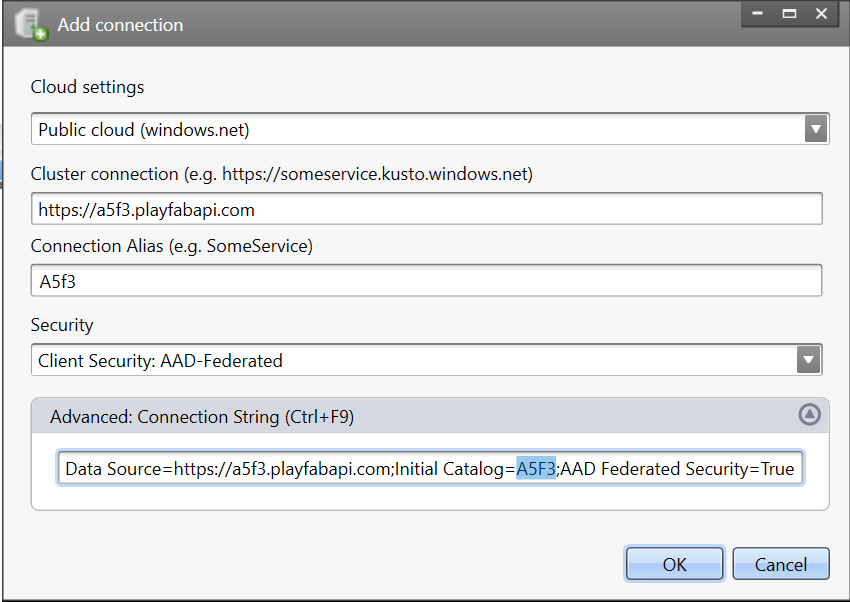
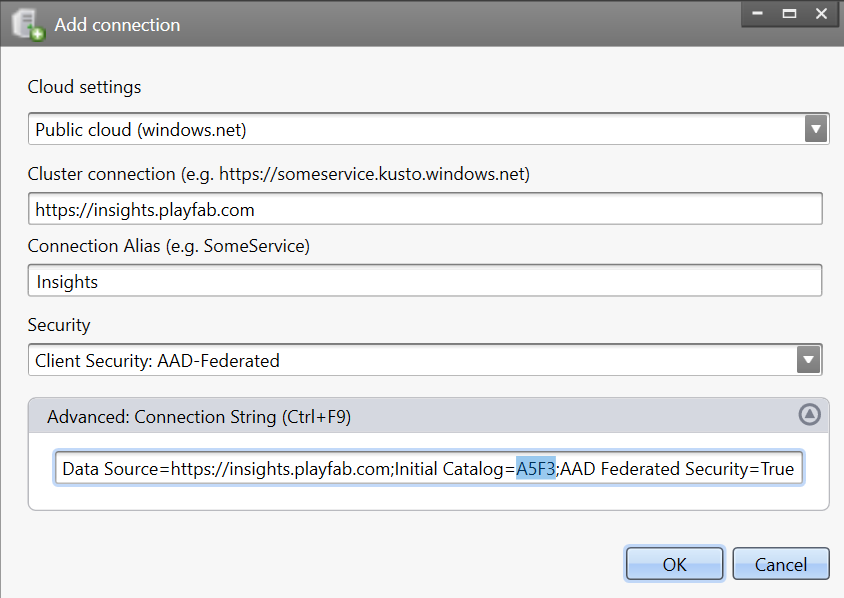
update endpoint

Changed region(s): [[0.0, 0.0, 1.0, 1.0], [0.8626, 0.0, 1.0, 0.0903]]

diff --git a/playfab-docs/features/Insights/connectivity/connecting-grafana-to-insights.md b/playfab-docs/features/Insights/connectivity/connecting-grafana-to-insights.md
@@ -47,17 +47,15 @@ Now that your title database is linked to an Azure app, you can use the app to c
 
 1. Log in to Grafana.
 
-   ![Grafana Login](media/grafana-login.png)
-
 2. On the **Welcome to Grafana** page, select **Add data source**. 
 
    ![Grafana Welcome](media/grafana-welcome.png)
 
-2. On the **Add Datasource** page, select the **Azure Data Explorer Datasource**. You can search for it with the searchbar or find it listed under the section **Others**. If you don't see the **Azure Data Explorer Datasource** option, you need to install the Azure Data Explorer Datasource For Grafana plugin.
+3. On the **Add Datasource** page, select the **Azure Data Explorer Datasource**. You can search for it with the searchbar or find it listed under the section **Others**. If you don't see the **Azure Data Explorer Datasource** option, you need to install the Azure Data Explorer Datasource For Grafana plugin.
 
    ![Grafana Add Datasource](media/grafana-add-datasource.png)
 
-3. On the **Azure Data Explorer Datasource** configuration page:
+4. On the **Azure Data Explorer Datasource** configuration page:
    *  For **Cluster URL**, enter your API endpoint. Use the following format format for the URL: `https://<titleID>.playfabapi.com`.
    *  Enter your **Tenant Id**, **Client Id**, and **Client secret** from your Azure Active Directory (AAD) application into their respective fields. 
    *  Select **Save & Test**. You should see a **Connection Successful** return message.

diff --git a/playfab-docs/features/Insights/connectivity/connecting-azure-data-factory-to-insights.md b/playfab-docs/features/Insights/connectivity/connecting-azure-data-factory-to-insights.md
@@ -73,7 +73,7 @@ We are now going to create a new pipeline to get data from Insights. To create a
  4. In the **New linked service (Azure Data Explorer (Kusto))** window, fill out the fields:
     * For **Name**, use the Title ID.
     * For **Account selection method**, select **Enter manually**.
-    * For the **Endpoint**, use the title's API URL. Use the following format format for the URL: `https://<titleid>.playfabapi.com`.
+    * For the **Endpoint**, use the PlayFab API endpoint, which is `https://insights.playfab.com`.
     * For **Service Principal ID**, enter your Client ID from your Azure app.
     * For **Service Principal Key**, enter your Client secret from your Azure app.
     * In the **Database** box, type the Title ID in all upper case.
@@ -82,7 +82,7 @@ We are now going to create a new pipeline to get data from Insights. To create a
 
    Select **Create**.
 
-2.  To verify that all of the information is correct, select **Test connection**. If everything is set up correctly, it returns a Connection successful response. If everything is set up correctly, it will return a **Connection successful** response. 
+2.  To verify that all of the information is correct, select **Test connection**. If everything is set up correctly, it returns a Connection successful response. 
 
    ![ADF Test Connection](media/adf-test-connection.png)
 

diff --git a/playfab-docs/features/Insights/connectivity/connecting-kusto-explorer-to-insights.md b/playfab-docs/features/Insights/connectivity/connecting-kusto-explorer-to-insights.md
@@ -36,7 +36,7 @@ On your local machine, open Kusto.Explorer.
    * Right-click on the **Connections** folder in the left navigation panel, then select **Add connection**.
 
 2. In the **Add connection** dialog box:
-   * Under **Cluster connection** enter your API endpoint, which follows the format `https://<titleid>.playfabapi.com`. 
+   * Under **Cluster connection** enter the PlayFab API endpoint, which is `https://insights.playfab.com`. 
    * Under **Security**, make sure **AAD Federated** is selected. 
    * Expand the **Advanced: Connection String** box and change the value of **Initial Catalog** from `NetDefaultDB` to `<titleID>`. Note that `<titleID>` must be all uppercase here. In the example below, this change is highlighted in the string. 
   

diff --git a/playfab-docs/features/Insights/connectivity/connecting-power-bi-to-insights.md b/playfab-docs/features/Insights/connectivity/connecting-power-bi-to-insights.md
@@ -34,7 +34,7 @@ On your local machine, open Power BI.
 
 1. In the **Power BI Desktop** window, select **Get Data** > **Azure Data Explorer (Kusto)**.
 2. In the **Azure Data Explorer (Kusto)** dialog box take the following steps:
-   * Under **Cluster** enter your API endpoint, which follows the format `https://<titleid>.playfabapi.com`. 
+   * Under **Cluster** enter the PlayFab API endpoint, which is `https://insights.playfab.com`. 
    * Under **Database** enter your title ID in all uppercase, as Database names are case sensitive. 
    * Scroll down, and under **Data Connectivity mode** select **DirectQuery**.
 

diff --git a/playfab-docs/features/Insights/connectivity/connecting-azure-data-explorer-to-insights.md b/playfab-docs/features/Insights/connectivity/connecting-azure-data-explorer-to-insights.md
@@ -36,7 +36,7 @@ To connect with Azure Data Explorer:
 
    ![ADX Add connection](media/adx-add-cluster-button.png)
 
-2. Enter your title API endpoint, which follows the format `https://<titleID>.playfabapi.com`. 
+2. Enter the PlayFab API endpoint, which is `https://insights.playfab.com`. 
 3. Select **Add**, and you should now be able to execute queries or commands on the database. 
 
 ## Additional resources

diff --git a/playfab-docs/features/Insights/connectivity/connecting-python-to-insights.md b/playfab-docs/features/Insights/connectivity/connecting-python-to-insights.md
@@ -72,6 +72,8 @@ query = "['events.all'] | count"
 # Force Kusto to use the v1 query endpoint
 client._query_endpoint = cluster + "/v1/rest/query"
 
+crp = ClientRequestProperties()
+crp.application = "KustoPythonSDK"
 response = client.execute(db, query)
 
 # Response processing
